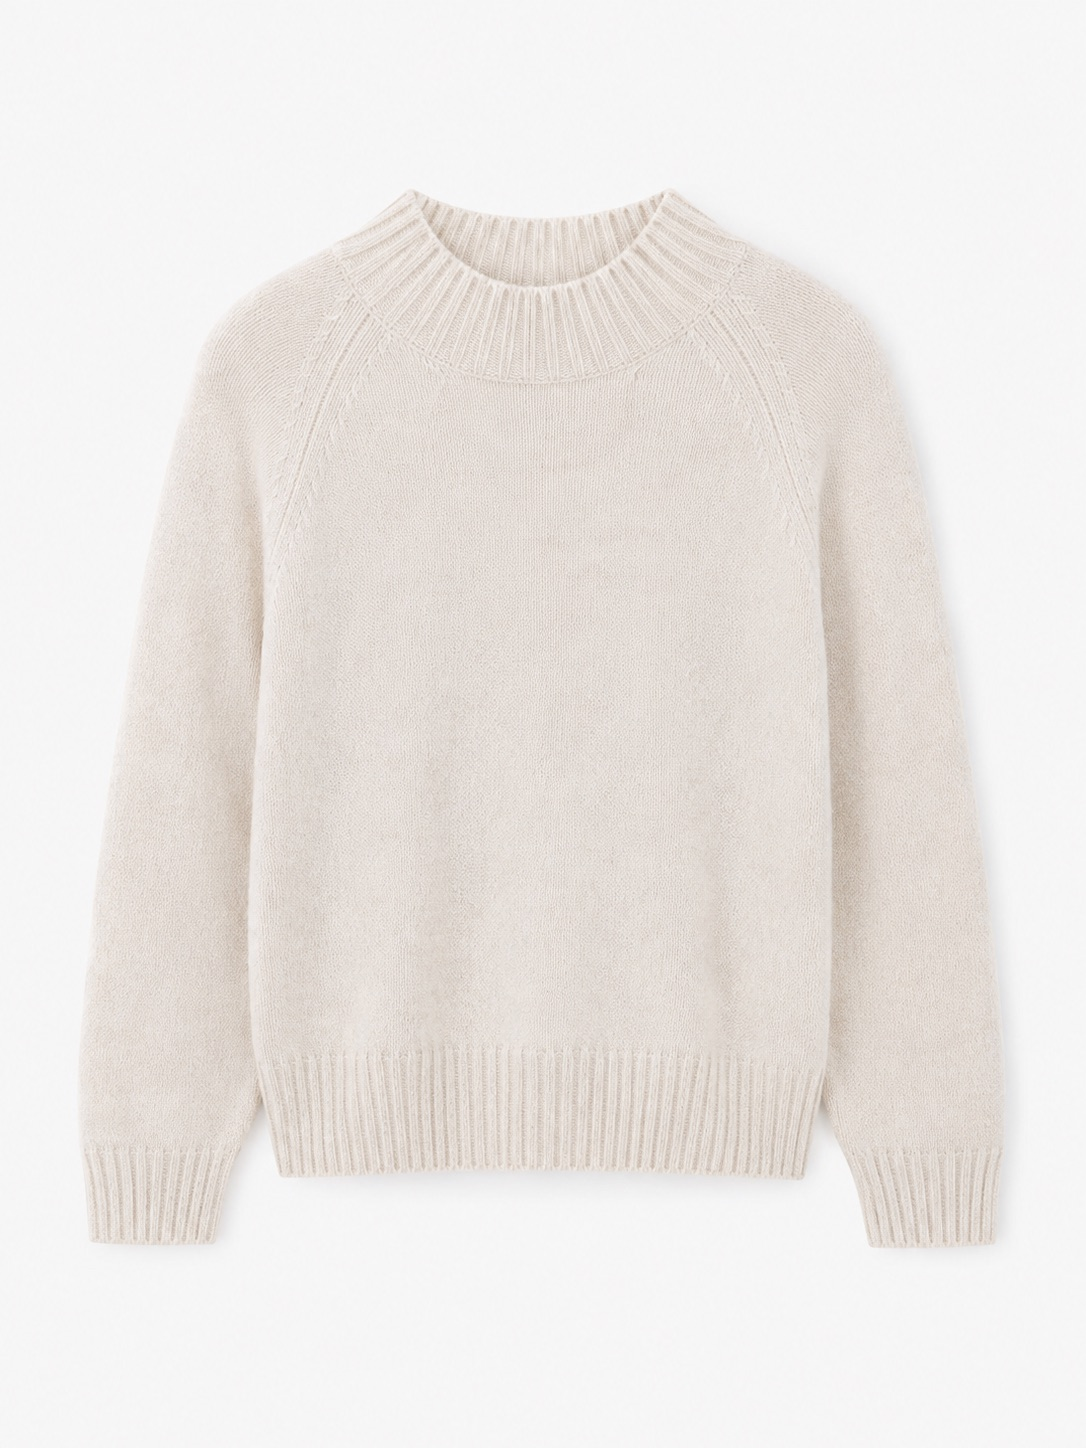
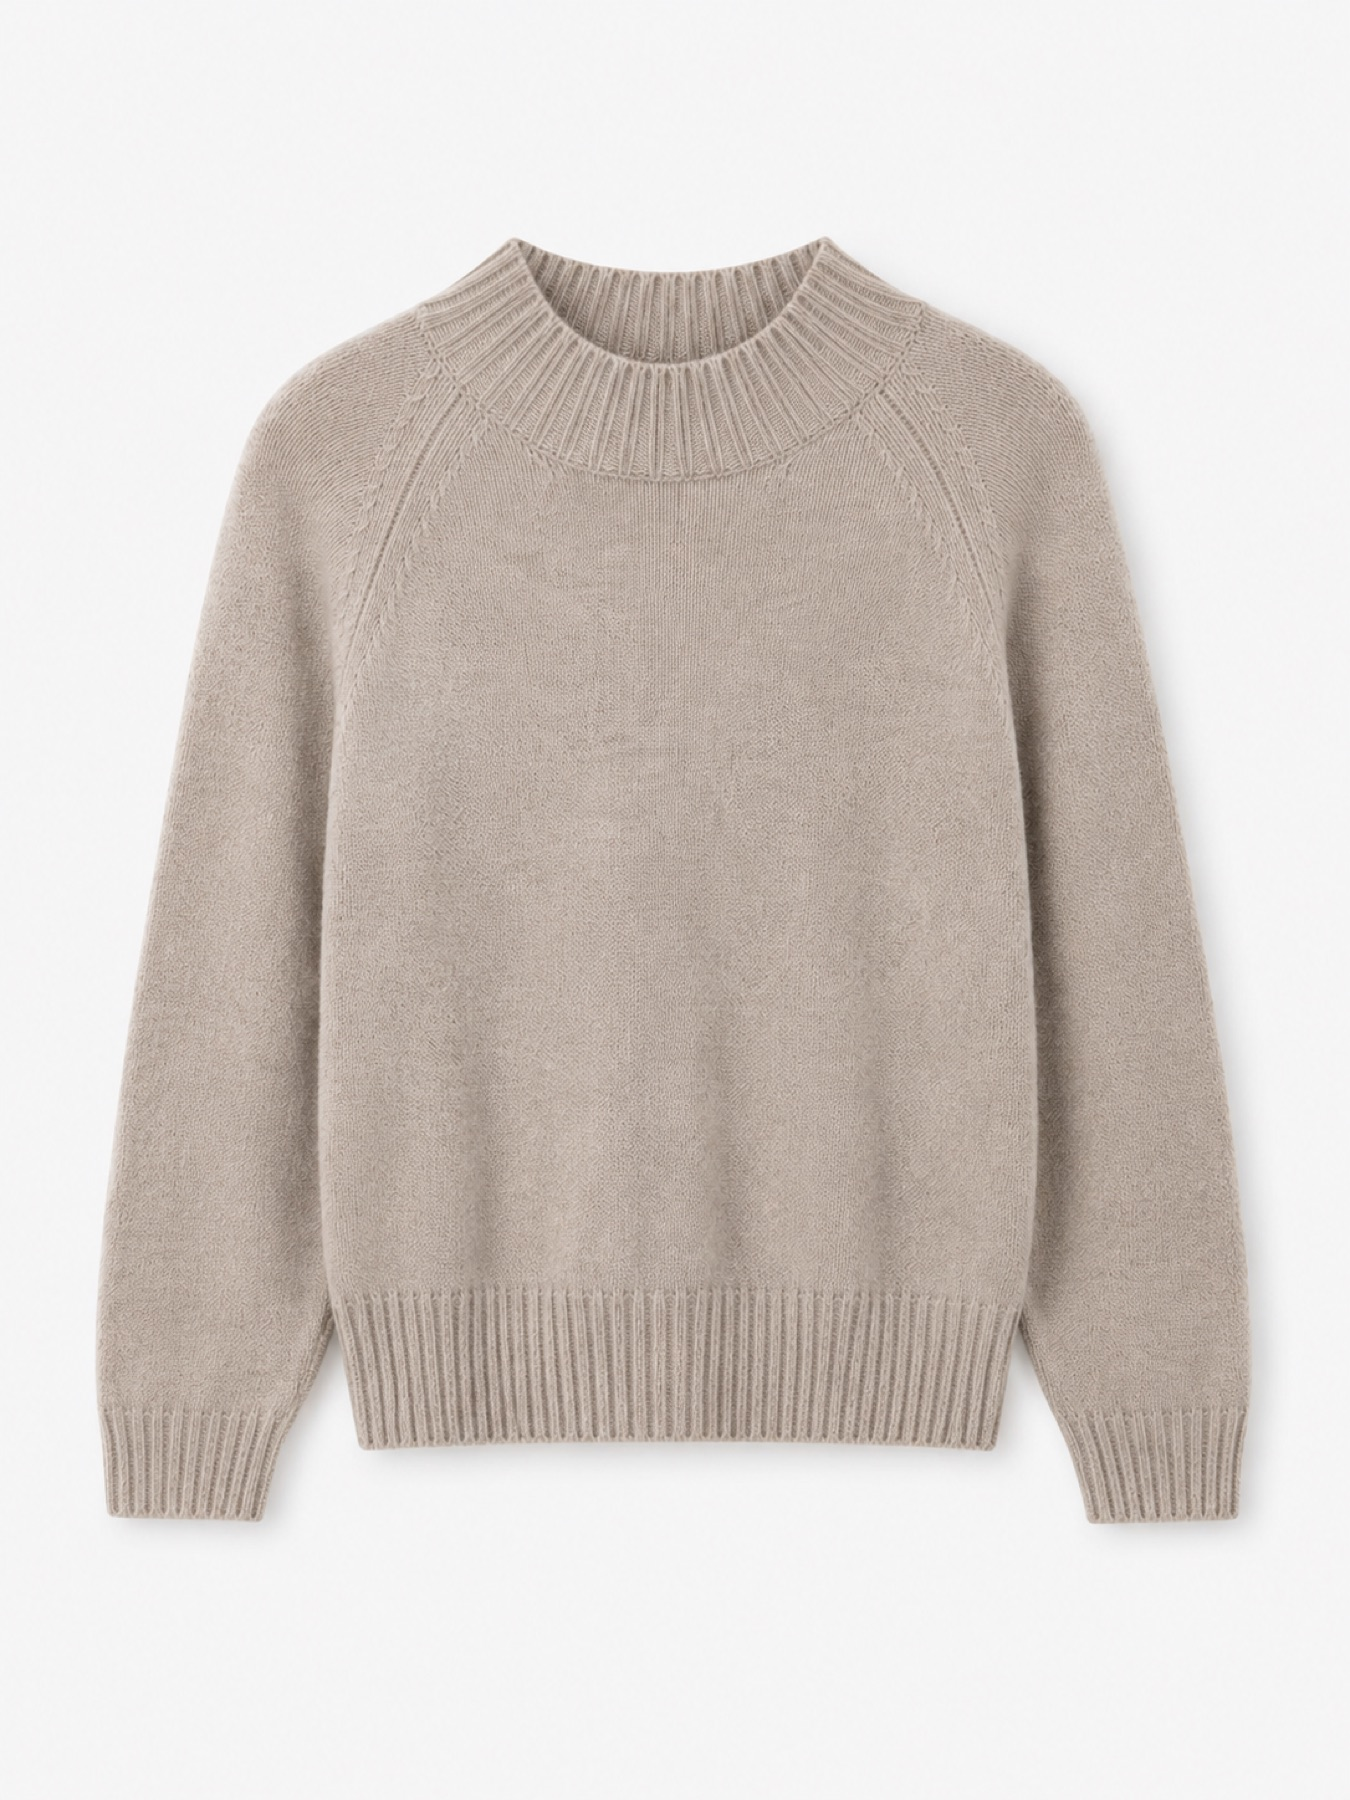
Fix Allegra colors and add missing photo

diff --git a/script.js b/script.js
@@ -1383,7 +1383,7 @@ Object.assign(productImagesById, {
   "232": [1, 2, 3, 4],
   "233": [1, 2, 3, 4],
   "234": [1, 2, 3, 4],
-  "235": [1, 2, 3, 4, 5, 6],
+  "235": [1, 2, 3, 4, 5, 6, 7],
   "236": [1, 2, 3, 4, 5, 6],
   "237": [1, 2, 3, 4, 5, 6],
   "238": [1, 2, 3, 4, 5, 6, 7, 8, 9]
@@ -1427,7 +1427,7 @@ Object.entries(winterImageAdditionsByProductId).forEach(([productId, photoNumber
   ])].sort((a, b) => a - b);
 });
 
-const IMAGE_ASSET_VERSION = "20260903-13";
+const IMAGE_ASSET_VERSION = "20260903-14";
 
 const PRODUCTION_2027_IMAGE_SOURCE_BY_PRODUCT_ID = {
   118: 48,  // Merano
@@ -1690,7 +1690,7 @@ const colorImageByProductId = {
   232: { "Avena Claro": 1, "Negro": 2, "Chocolate Oscuro": 3, "Marfil": 4 },
   233: { "Avena Claro": 1, "Negro": 2, "Chocolate Oscuro": 3, "Marfil": 4 },
   234: { "Avena Claro": 1, "Negro": 2, "Chocolate": 3, "Marfil": 4 },
-  235: { "Crudo": 1, "Avena": 2, "Chocolate": 3, "Celeste": 5, "Negro": 6 },
+  235: { "Avena Claro": 2, "Negro": 7, "Chocolate Oscuro": 3, "Avena Oscuro": 5, "Marfil": 1, "Celeste": 6 },
   236: { "Avena Claro": 1, "Negro": 2, "Chocolate": 3, "Marfil": 4, "Pistacho": 5, "Gris": 6 },
   237: { "Crudo": 1, "Avena": 2, "Chocolate": 3, "Negro": 4, "Avena Oscuro": 5, "Celeste": 6 },
   238: { "Avena Claro": 1, "Negro": 2, "Marfil": 3, "Pistacho": 4, "Gris": 5, "Avena Oscuro": 6, "Chocolate": 7, "Celeste": 8, "Chocolate Oscuro": 9 },
@@ -2568,10 +2568,11 @@ const sweater2027Products = [
     { color: "Marfil", curve: [3, 4] }
   ], 30),
   sweater2027WomenProduct(235, "", "Sweater Allegra", [
-    { color: "Crudo", curve: [3, 3] },
-    { color: "Avena", curve: [3, 3] },
-    { color: "Chocolate", curve: [4, 4] },
-    { color: "Negro", curve: [4, 4] },
+    { color: "Avena Claro", curve: [3, 3] },
+    { color: "Negro", curve: [3, 3] },
+    { color: "Chocolate Oscuro", curve: [3, 3] },
+    { color: "Avena Oscuro", curve: [2, 2] },
+    { color: "Marfil", curve: [3, 3] },
     { color: "Celeste", curve: [1, 1] }
   ], 30),
   sweater2027WomenProduct(236, "", "Sweater Violeta", [

diff --git a/index.html b/index.html
@@ -233,6 +233,6 @@
     <a href="#catalogo">Volver al catálogo</a>
   </footer>
 
-  <script src="script.js?v=20260903-14"></script>
+  <script src="script.js?v=20260903-15"></script>
 </body>
 </html>
